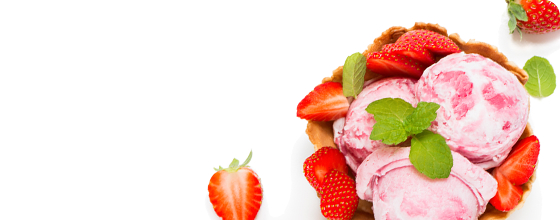
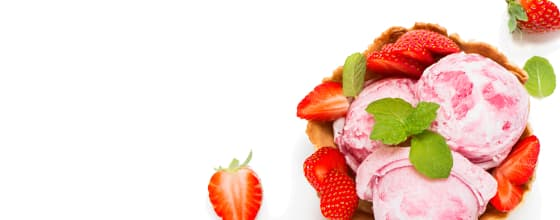
We continue to prepare graphics

diff --git a/index.html b/index.html
@@ -43,17 +43,17 @@
       <div>
         <ul>
           <li>
-            <img src="https://via.placeholder.com/150x100" alt="Крем-брюле и пломбир с малиновым джемом">
+            <img src="img/slaid-1.png" width="647" height="584" alt="Крем-брюле и пломбир с малиновым джемом">
             <h2>Крем-брюле и пломбир с малиновым джемом</h2>
             <a href="#">Давайте оба!</a>
           </li>
           <li>
-            <img src="https://via.placeholder.com/150x100" alt="Шоколадный пломбир и лимонный сорбет">
+            <img src="img/slaid-2.png" width="644" height="582" alt="Шоколадный пломбир и лимонный сорбет">
             <h2>Шоколадный пломбир и лимонный сорбет</h2>
             <a href="#">Давайте оба!</a>
           </li>
           <li>
-            <img src="https://via.placeholder.com/150x100" alt="Пломбир с помадкой и клубничный щербет">
+            <img src="img/slaid-3.png" width="639" height="582" alt="Пломбир с помадкой и клубничный щербет">
             <h2>Пломбир с помадкой и клубничный щербет</h2>
             <a href="#">Давайте оба!</a>
           </li>
@@ -65,14 +65,14 @@
       <section>
         <ul>
           <li>
-            <img src="https://via.placeholder.com/150x100" alt="Малинка">
+            <img src="img/malina.jpg" width="560" height="299" alt="Малинка">
             <h2>Малинка даром!</h2>
             <p>При покупке 2 кг любого фруктового мороженого, добавим в ваш заказ банку маринового варенья бесплатно.
             <p>
               <a href="#">Хочу варенье!</a>
           </li>
           <li>
-            <img src="https://via.placeholder.com/150x100" alt="Шоколад">
+            <img src="img/shakolad.jpg" width="560" height="299" alt="Шоколад">
             <h2>Шоколадки даром!</h2>
             <p>При покупке 2 кг пломбира, добавим в ваш заказ упаковку вкуснейшей шоколадной присыпки совершенно
               бесплатно.</p>
@@ -150,7 +150,7 @@
       </div>
     </section>
     <section>
-      <img src="https://via.placeholder.com/150x100" alt="Карта">
+      <img src="img/map.jpg" alt="Карта">
       <img src="img/pin.svg" width="80" height="140">
       <p>Адрес главного офиса и офлайн-магазина:</p>
       <p>ул. Большая Конюшенная, 19/8, Санкт-Петербургул. Большая Конюшенная, 19/8, Санкт-Петербург</p>
